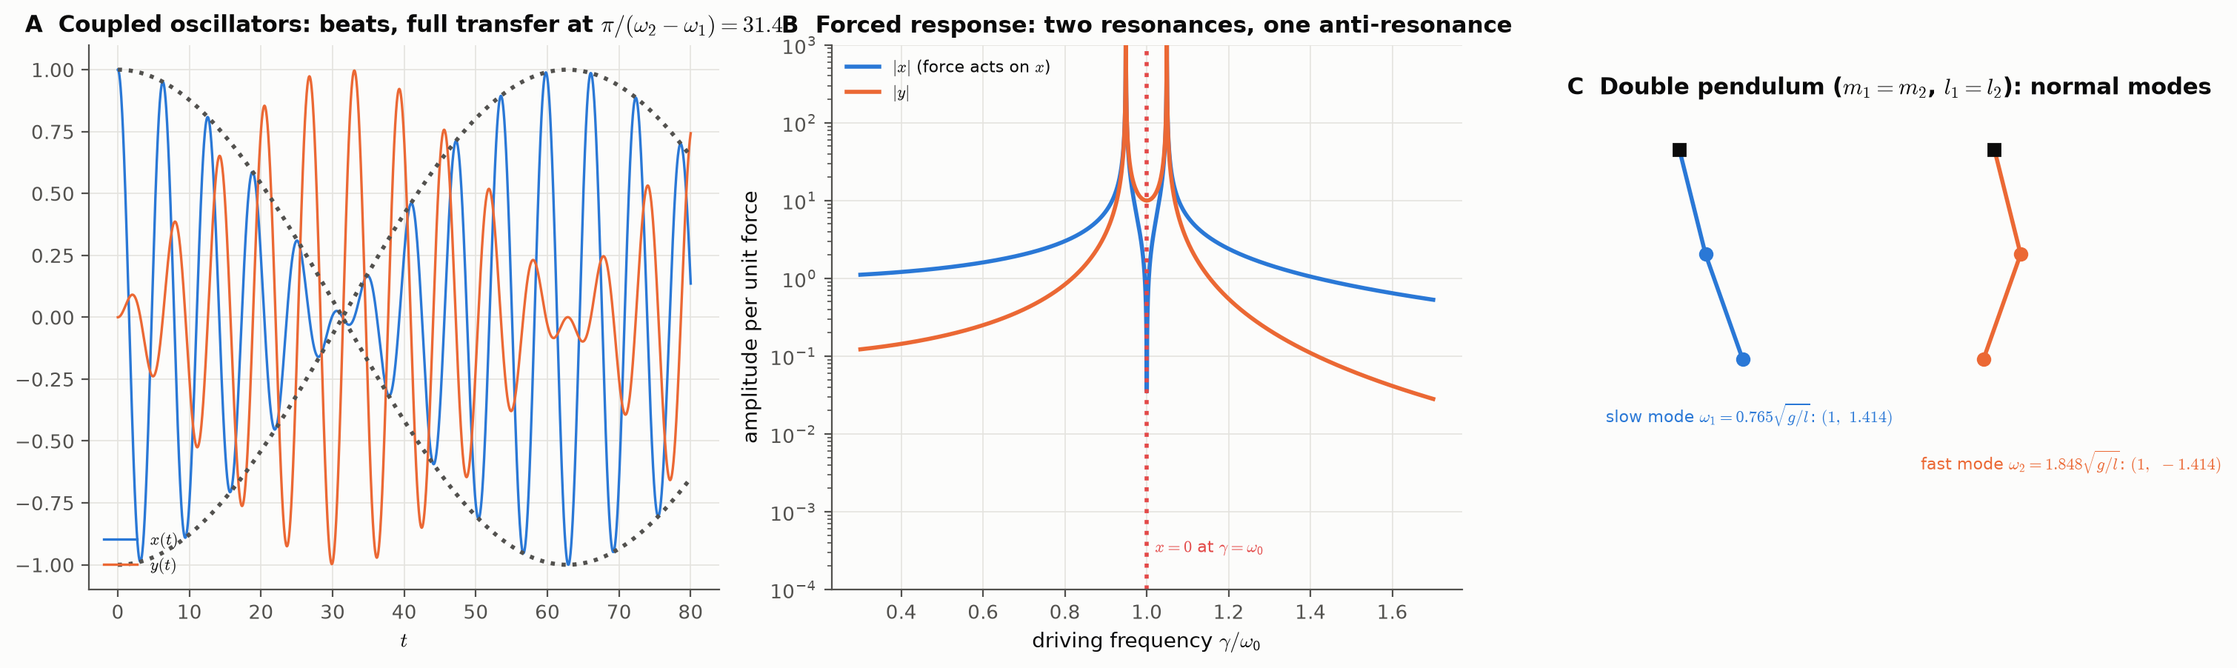
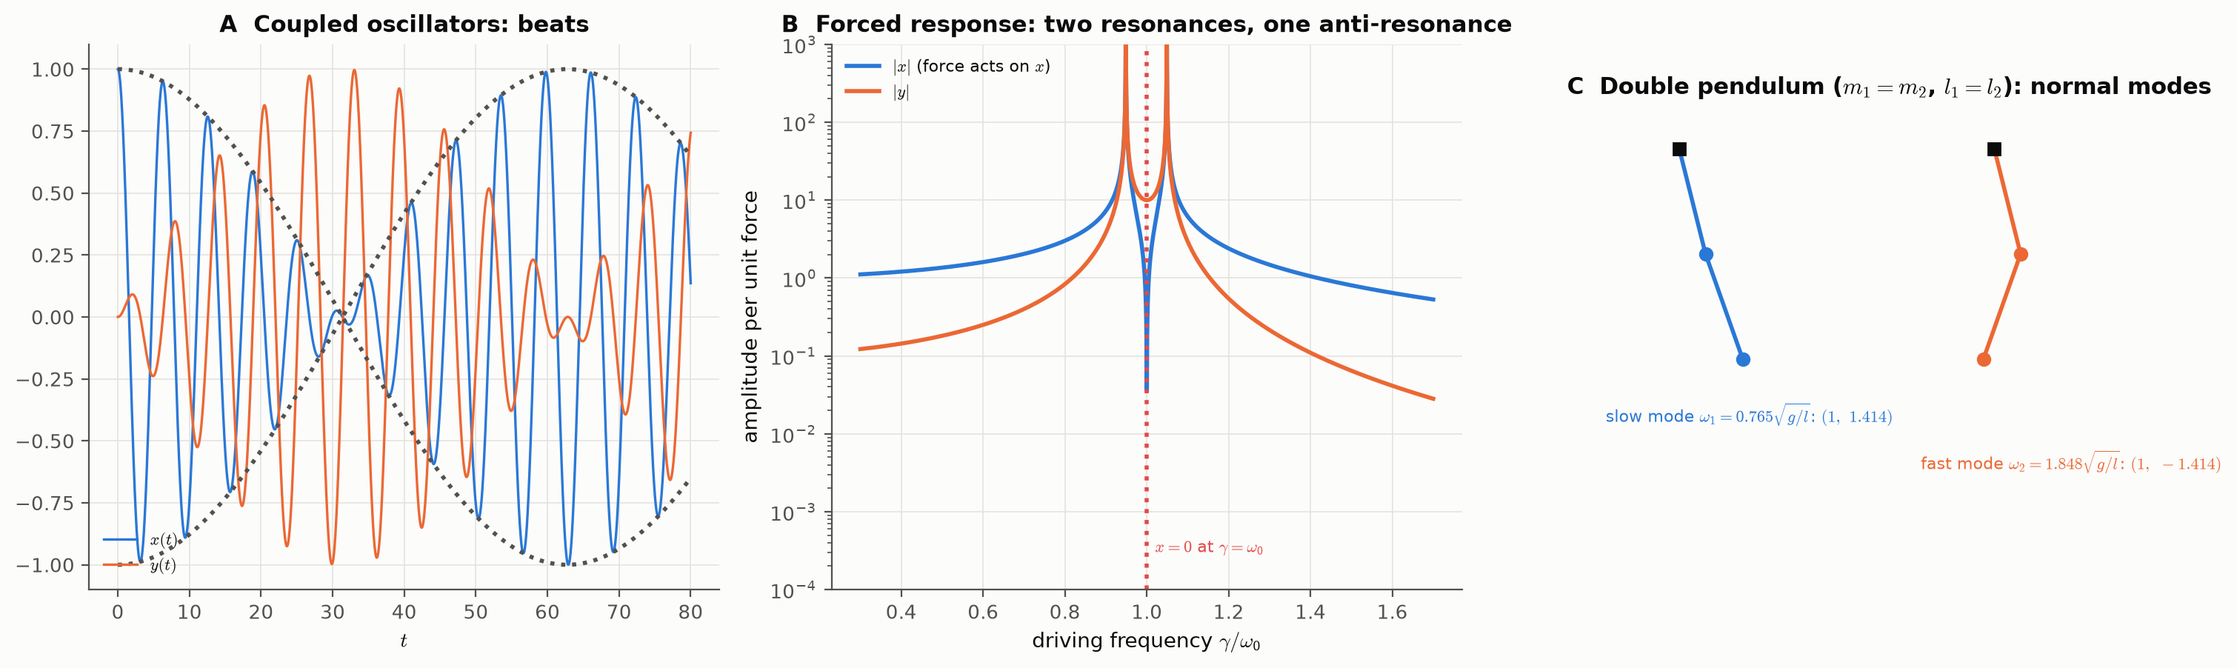
notes: 2026-11-04 13:07

diff --git a/scripts/fig_cm06.py b/scripts/fig_cm06.py
@@ -10,7 +10,7 @@ f=lambda t,y:[y[2],y[3],-w0**2*y[0]+a*y[1],-w0**2*y[1]+a*y[0]]
 s=solve_ivp(f,[0,80],[1,0,0,0],rtol=1e-11,atol=1e-12,dense_output=True); t=np.linspace(0,80,4000); x,y=s.sol(t)[:2]
 A.plot(t,x,color=BLUE,label="$x(t)$",lw=1.2); A.plot(t,y,color=ORANGE,label="$y(t)$",lw=1.2)
 env=np.cos((np.sqrt(1.1)-np.sqrt(0.9))*t/2); A.plot(t,env,color=MUTED,ls=":"); A.plot(t,-env,color=MUTED,ls=":")
-A.set_xlabel("$t$"); A.legend(fontsize=8,loc="lower left"); A.set_title("A  Coupled oscillators: beats, full transfer at $\\pi/(\\omega_2-\\omega_1)=31.4$")
+A.set_xlabel("$t$"); A.legend(fontsize=8,loc="lower left"); A.set_title("A  Coupled oscillators: beats")
 B=ax[1]; g=np.linspace(0.3,1.7,4000)
 w1s,w2s=0.9,1.1
 xa=0.5*(1/(w2s-g**2)+1/(w1s-g**2)); ya=0.5*(1/(w2s-g**2)-1/(w1s-g**2))

diff --git a/15-Classical-Mechanics/CM06 Small Oscillations and Normal Modes.md b/15-Classical-Mechanics/CM06 Small Oscillations and Normal Modes.md
@@ -1,0 +1,273 @@
+---
+title: CM06 Small Oscillations and Normal Modes
+aliases: [CM06, small oscillations, normal modes, normal coordinates, eigenfrequencies, characteristic equation, coupled oscillators, double pendulum, resonance, beats, forced oscillations, harmonic oscillator, equilibrium stability, anti-resonance]
+subject: classical-mechanics
+type: chapter
+chapter: 6
+part: II
+scope: [taught, extra-book, extra-beyond]
+by: [syllabus, book]
+status: draft
+prereq: ["[[CM03 Symmetries, Noether's Theorem and Conservation Laws]]"]
+tags: [subject/classical-mechanics, type/chapter, taught, extra/book, extra/beyond, src/syllabus, src/book, status/draft]
+---
+# CM06 · Small Oscillations and Normal Modes
+
+◀ [[CM05 Scattering]] · [[Classical Mechanics - Course Map]]
+
+<span class="scope-taught">in course overview</span> <span class="scope-extra-book">extra · book</span> <span class="scope-extra-beyond">extra · beyond</span>
+
+> [!warning] Source status (every citation below was read in this session)
+> Overview block 2: "small oscillations" among the applications of the equations of motion. No IISERP lecture notes exist in the folder.
+>
+> **Read directly:** Landau-Lifshitz Vol. 1 §21 (free oscillations in one dimension, printed pp. 58-60), §22 (forced oscillations, resonance and beats, pp. 61-63, up to (22.9)), §23 (several degrees of freedom, pp. 65-70, including Problem 1); Alam (IISER Kolkata notes) §1.3 (the double pendulum, pp. 4-5). pdf = printed + 28. **Not cited because not read:** LL §24 (vibrations of molecules), §25 and §26 (damped and forced oscillations under friction: the damped case here is my own derivation from the Rayleigh function of CM02), §27-29 (parametric resonance, anharmonic oscillations), Goldstein Ch. 6, Thornton Ch. 12, Gregory Ch. 15, Alam §1.2 beyond its opening.
+
+> [!syllabus] Syllabus map
+> 🟢 **In course overview**: §1 expansion about equilibrium, §2 one-dimensional oscillator, §4 several degrees of freedom and normal coordinates.
+>
+> 🟡 **Extra · book**: §3 forced oscillations, resonance and beats (LL §22), §5 the double pendulum (Alam §1.3).
+>
+> 🔵 **Extra · beyond (mine)**: the damped oscillator from the Rayleigh function, the three-mass chain, the forced two-oscillator response and the **anti-resonance**, the nonlinear integration of the double pendulum on a normal mode, `scripts/cm06_numbers.py`, `scripts/fig_cm06.py`.
+
+> [!key] After this chapter you can
+> - expand a Lagrangian about a stable equilibrium into $L=\tfrac12(m_{ik}\dot x_i\dot x_k-k_{ik}x_ix_k)$,
+> - find the **eigenfrequencies** from $\det(k_{ik}-\omega^2m_{ik})=0$ and the **mode shapes** from the null vectors,
+> - build **normal coordinates** in which the motion is $s$ independent one-dimensional oscillators,
+> - solve **forced** problems by projection onto normal coordinates, recognise **resonance**, **beats** and **anti-resonance**,
+> - handle the double pendulum and other coupled systems, with numbers.
+
+> [!intuition] The one-sentence story
+> Near a stable equilibrium every system is a set of springs: potential and kinetic energy are both quadratic forms, and a single linear change of variables diagonalises both at once. The resulting normal coordinates oscillate independently, so any small motion is a superposition of $s$ simple harmonic motions at fixed frequencies; that is why the spectrum of a molecule, a bridge or a crystal is a list of numbers.
+
+```mermaid
+flowchart LR
+  A["stable equilibrium:<br/>U minimum"] --> B["expand to 2nd order:<br/>U = ½ k_ik x_i x_k"]
+  B --> C["L = ½(m_ik ẋ_i ẋ_k - k_ik x_i x_k)"]
+  C --> D["det(k - ω² m) = 0:<br/>eigenfrequencies"]
+  D --> E["normal coordinates Q_α:<br/>Q̈ + ω² Q = 0"]
+  E --> F["free motion:<br/>sum of s oscillations"]
+  E --> G["forced motion:<br/>s independent driven oscillators"]
+```
+
+## 1. Expansion about equilibrium and the one-dimensional oscillator (LL §21)
+Stable equilibrium corresponds to a minimum of the potential energy $U(q)$ at $q_0$: a displacement produces a force $-\mathrm dU/\mathrm dq$ toward $q_0$. For small displacements $x=q-q_0$ keep the first non-vanishing term of the expansion, which is generally the second-order one (LL (21.1)-(21.2)):
+
+$$U(x)=\tfrac12kx^2,\qquad k=U''(q_0)>0,$$
+
+measuring $U$ from its minimum. The kinetic energy $\tfrac12a(q)\dot q^2$ is evaluated at $q_0$: $a(q_0)=m$ ("$m$ is the mass only if $x$ is the Cartesian coordinate", LL's footnote). So
+
+$$L=\tfrac12m\dot x^2-\tfrac12kx^2\quad(21.3),\qquad\ddot x+\omega^2x=0,\quad\omega=\sqrt{k/m}\ \ (21.4)\text{-}(21.6).$$
+
+The general solution is $x=c_1\cos\omega t+c_2\sin\omega t=a\cos(\omega t+\alpha)$ (21.7)-(21.8) with amplitude $a=\sqrt{c_1^2+c_2^2}$, phase $\alpha$, $\tan\alpha=-c_2/c_1$; in terms of initial data $a=\sqrt{x_0^2+v_0^2/\omega^2}$, $\tan\alpha=-v_0/\omega x_0$ (LL Problem 1). Two points LL stress: **the frequency is independent of the amplitude**, fixed by the system alone; this relies on $U$ being quadratic and fails in higher approximations (or if the minimum is of higher order, $U\sim x^n$, $n>2$). The energy is $E=\tfrac12m\dot x^2+\tfrac12kx^2=\tfrac12m\omega^2a^2$ (21.10), proportional to the square of the amplitude. In complex form $x=\mathrm{Re}[Ae^{i\omega t}]$ with complex amplitude $A=ae^{i\alpha}$ (21.11)-(21.12): the exponential is unchanged by differentiation, so one may drop "Re" through all linear operations and take the real part at the end.
+
+> [!example] Worked example 1: the pendulum (🔵 using CM01)
+> $L=\tfrac12ml^2\dot\theta^2+mgl\cos\theta\simeq\tfrac12ml^2\dot\theta^2-\tfrac12mgl\theta^2+\text{const}$, so $m\to ml^2$, $k\to mgl$ and $\omega=\sqrt{g/l}$, $T_0=2\pi\sqrt{l/g}$. The quadratic approximation drops the amplitude dependence that CM01 Worked example 4 computed exactly: $T/T_0=1.0663$ at $\theta_0=1$ rad.
+
+## 2. Forced oscillations, resonance and beats (🟡, LL §22)
+An external field adds to the potential energy $U_e(x,t)\simeq U_e(0,t)+x[\partial U_e/\partial x]_{x=0}$; the first term is a function of time only and drops out as a total derivative; $-[\partial U_e/\partial x]_0\equiv F(t)$ is the external force at equilibrium, and
+
+$$L=\tfrac12m\dot x^2-\tfrac12kx^2+xF(t),\qquad\ddot x+\omega^2x=\frac{F(t)}m\qquad(22.1)\text{-}(22.2).$$
+
+For $F=f\cos(\gamma t+\beta)$ a particular solution is $b\cos(\gamma t+\beta)$ with $b=f/m(\omega^2-\gamma^2)$, so (LL (22.4))
+
+$$x=a\cos(\omega t+\alpha)+\frac{f}{m(\omega^2-\gamma^2)}\cos(\gamma t+\beta):$$
+
+a combination of oscillations at the intrinsic and at the driving frequency. At **resonance** $\gamma\to\omega$ the second term is $0/0$; L'Hôpital gives
+
+$$x=a\cos(\omega t+\alpha)+\frac{f}{2m\omega}\,t\sin(\omega t+\beta)\qquad(22.5):$$
+
+the amplitude grows **linearly in time** until the oscillations are no longer small. Near resonance, $\gamma=\omega+\epsilon$ with $\epsilon$ small, write $x=Ae^{i\omega t}+Be^{i(\omega+\epsilon)t}=[A+Be^{i\epsilon t}]e^{i\omega t}$: small oscillations of variable amplitude $C^2=a^2+b^2+2ab\cos(\epsilon t+\beta-\alpha)$ (22.6)-(22.7), varying between $|a-b|$ and $a+b$ with frequency $\epsilon$: **beats**. LL also reduce the arbitrary-force problem to the first-order complex equation $\dot\xi-i\omega\xi=F(t)/m$ for $\xi=\dot x+i\omega x$ (22.8)-(22.9).
+
+> [!example] Worked example 2: resonance and beats, checked by integration (🔵 numbers)
+> $\omega=2$, $F/m=\cos\gamma t$, $x(0)=\dot x(0)=0$. At $\gamma=\omega$: $x=\tfrac{t}{2\omega}\sin\omega t$; integration gives $x(10)=2.282363$, identical to $\tfrac{10}4\sin20=2.282363$, with envelope $t/2\omega=2.5$ at $t=10$. At $\gamma=2.1$: $x=\dfrac{\cos\gamma t-\cos\omega t}{\omega^2-\gamma^2}$, so the maximum amplitude is $2/|\omega^2-\gamma^2|=4.878$ (integrated: $4.8780$) and the beat envelope has period $2\pi/\epsilon=62.8$.
+
+> [!note] Damping (🔵, not from LL)
+> With the Rayleigh function of CM02 §6.2 ($\mathcal F=\tfrac12b\dot x^2$) the equation is $m\ddot x+b\dot x+kx=F(t)$, and for free motion $x\propto e^{-bt/2m}\cos\omega_dt$ with $\omega_d=\sqrt{\omega^2-(b/2m)^2}$ (CM02 Worked example 6: $\omega_d=1.9975$, decay rate $0.2$). The resonance peak of the forced steady state is then finite, of height $\sim f/(b\omega)$; LL §25-26 treat this, which I have not read.
+
+## 3. Several degrees of freedom (LL §23)
+### 3.1 The Lagrangian and the equations of motion
+Let $U(q_1,\dots,q_s)$ have a minimum at $q_{i0}$. With $x_i=q_i-q_{i0}$ (23.1), expanding to second order gives a positive-definite quadratic form
+
+$$U=\tfrac12\sum_{i,k}k_{ik}x_ix_k,\quad k_{ik}=k_{ki}\ \ (23.2);\qquad T=\tfrac12\sum_{i,k}m_{ik}\dot x_i\dot x_k,\quad m_{ik}=a_{ik}(q_0)=m_{ki}\ \ (23.3),$$
+
+because $T$ is already quadratic in the velocities (CM02 §3, LL (5.5)). Hence
+
+$$L=\tfrac12\sum_{i,k}\bigl(m_{ik}\dot x_i\dot x_k-k_{ik}x_ix_k\bigr)\qquad(23.4).$$
+
+Using the symmetry of $m_{ik}$ and $k_{ik}$, $\partial L/\partial\dot x_i=\sum_km_{ik}\dot x_k$ and $\partial L/\partial x_i=-\sum_kk_{ik}x_k$, so Lagrange's equations are $s$ linear homogeneous ODEs with constant coefficients:
+
+$$\sum_km_{ik}\ddot x_k+\sum_kk_{ik}x_k=0\qquad(i=1,\dots,s)\qquad(23.5).$$
+
+### 3.2 Eigenfrequencies and mode shapes
+Try $x_k=A_ke^{i\omega t}$ (23.6): $\sum_k(-\omega^2m_{ik}+k_{ik})A_k=0$ (23.7), which has non-zero solutions only if
+
+$$\boxed{\det\bigl(k_{ik}-\omega^2m_{ik}\bigr)=0}\qquad(23.8),$$
+
+the **characteristic equation**, of degree $s$ in $\omega^2$, with roots $\omega_\alpha^2$ ($\alpha=1,\dots,s$), the **eigenfrequencies**. The roots are **real and positive**. LL give two arguments: an imaginary part of $\omega$ would give an exponentially growing or decaying factor and so a varying energy $E=U+T$, which is impossible; and, multiplying (23.7) by $A_i^*$ and summing,
+
+$$\omega^2=\frac{\sum k_{ik}A_i^*A_k}{\sum m_{ik}A_i^*A_k},$$
+
+a ratio of two real positive-definite Hermitian forms. For distinct roots the amplitudes $A_{k\alpha}$ are proportional to the minors of the determinant (23.8) at $\omega=\omega_\alpha$ (the **mode shape**), and the general solution is the real part of a sum of $s$ terms,
+
+$$x_k=\mathrm{Re}\sum_\alpha\Delta_{k\alpha}C_\alpha e^{i\omega_\alpha t}=\sum_\alpha\Delta_{k\alpha}\Theta_\alpha,\quad\Theta_\alpha=\mathrm{Re}[C_\alpha e^{i\omega_\alpha t}]\quad(23.9)\text{-}(23.10):$$
+
+the time variation of each coordinate is a superposition of $s$ simple periodic oscillations with arbitrary amplitudes and phases but fixed frequencies.
+
+### 3.3 Normal coordinates
+Regarding (23.9) as $s$ equations for the $s$ unknowns $\Theta_\alpha$, one may express the $\Theta_\alpha$ through the $x_k$; they are new generalised coordinates, the **normal coordinates**, satisfying
+
+$$\ddot\Theta_\alpha+\omega_\alpha^2\Theta_\alpha=0\qquad(23.11),$$
+
+completely independent "normal oscillations". In them the Lagrangian is a sum of one-dimensional oscillators,
+
+$$L=\sum_\alpha\tfrac12m_\alpha\bigl(\dot\Theta_\alpha^2-\omega_\alpha^2\Theta_\alpha^2\bigr)\qquad(23.12),$$
+
+so *the transformation simultaneously diagonalises both quadratic forms $T$ and $U$*. It is usual to normalise with $Q_\alpha=\sqrt{m_\alpha}\Theta_\alpha$ (23.13) so that $L=\tfrac12\sum(\dot Q_\alpha^2-\omega_\alpha^2Q_\alpha^2)$.
+
+**Degeneracy.** If some roots coincide, the general form (23.9) is unchanged, with the same number $s$ of terms; a multiple frequency corresponds to as many normal coordinates as its multiplicity, but their choice is not unique (any linear transformation preserving $\sum\dot Q^2$ and $\sum Q^2$). LL's example: a particle in a constant external field in three dimensions, $L=\tfrac12m(\dot x^2+\dot y^2+\dot z^2)-\tfrac12(k_1x^2+k_2y^2+k_3z^2)$ after choosing axes that diagonalise $U$ (23.14): normal oscillations along $x,y,z$ with $\omega_i=\sqrt{k_i/m}$, all equal for a central field $U=\tfrac12kr^2$.
+
+### 3.4 Forced oscillations by projection (23.15)-(23.17)
+With external forces the Lagrangian is $L=L_0+\sum_kF_k(t)x_k$; in normal coordinates $L=\sum_\alpha\tfrac12(\dot Q_\alpha^2-\omega_\alpha^2Q_\alpha^2)+\sum_\alpha f_\alpha(t)Q_\alpha$ with $f_\alpha=\sum_kF_k\Delta_{k\alpha}/\sqrt{m_\alpha}$ (projection of the force on each mode), and the equations are
+
+$$\ddot Q_\alpha+\omega_\alpha^2Q_\alpha=f_\alpha(t),$$
+
+"each involving only one unknown function": a forced multi-degree problem reduces to $s$ forced one-dimensional problems of §2. In particular each mode resonates when the driving frequency reaches its own $\omega_\alpha$.
+
+> [!example] Worked example 3: two coupled identical oscillators (LL §23 Problem 1)
+> $L=\tfrac12(\dot x^2+\dot y^2)-\tfrac12\omega_0^2(x^2+y^2)+\alpha xy$: equations $\ddot x+\omega_0^2x=\alpha y$, $\ddot y+\omega_0^2y=\alpha x$. Substituting (23.6): $A_x(\omega_0^2-\omega^2)=\alpha A_y$, $A_y(\omega_0^2-\omega^2)=\alpha A_x$; characteristic equation $(\omega_0^2-\omega^2)^2=\alpha^2$, so $\omega_1^2=\omega_0^2-\alpha$ (in-phase, $A_y=A_x$) and $\omega_2^2=\omega_0^2+\alpha$ (anti-phase). Normal coordinates $Q_\pm=(x\pm y)/\sqrt2$ (the mode shapes are the sum and difference). *Beats:* starting from $x=1$, $y=0$ at rest, $x=\cos\tfrac{\omega_2-\omega_1}2t\cos\bar\omega t$, $y=\sin\tfrac{\omega_2-\omega_1}2t\sin\bar\omega t$: energy swings between the two oscillators with full transfer after $\pi/(\omega_2-\omega_1)$. For $\omega_0=1$, $\alpha=0.1$: $\omega_1=0.94868$, $\omega_2=1.04881$, beat period $2\pi/(\omega_2-\omega_1)=62.75$, full transfer at $31.38$ (integrated: $x(31.377)=0$ to $10^{-5}$; panel A).
+
+> [!example] Worked example 4: forced coupled oscillators, with an **anti-resonance** (🔵)
+> Force $F\cos\gamma t$ on $x$ only. In normal coordinates the in-phase combination $Q_+=(x+y)/\sqrt2$ has frequency $\omega_1$ and the anti-phase one $Q_-=(x-y)/\sqrt2$ has $\omega_2$, and the force projects as $f_\pm=F/\sqrt2$, so $Q_+=\dfrac{F/\sqrt2}{\omega_1^2-\gamma^2}\cos\gamma t$, $Q_-=\dfrac{F/\sqrt2}{\omega_2^2-\gamma^2}\cos\gamma t$. Then $x=\tfrac1{\sqrt2}(Q_++Q_-)$ and $y=\tfrac1{\sqrt2}(Q_+-Q_-)$ give amplitudes
+>
+> $$x=\frac F2\Bigl[\frac1{\omega_1^2-\gamma^2}+\frac1{\omega_2^2-\gamma^2}\Bigr],\qquad y=\frac F2\Bigl[\frac1{\omega_1^2-\gamma^2}-\frac1{\omega_2^2-\gamma^2}\Bigr].$$
+>
+> Both diverge at $\gamma=\omega_1$ and $\omega_2$ (two resonances). Between them the two terms in $x$ have opposite signs and cancel exactly when $\gamma^2=\tfrac12(\omega_1^2+\omega_2^2)=\omega_0^2$: **the driven oscillator stands still** while its partner moves. For $\omega_0=1$, $\alpha=0.1$ (amplitudes per unit force, from solving the $2\times2$ system): $\gamma=0.5$: $(x,y)=(1.358,\,0.181)$; $\gamma=0.9$: $(7.28,\,3.83)$; $\gamma=1.0$: $(0,\,-10)$ (|y| = 10); $\gamma=1.5$: $(-0.805,\,0.064)$ (panel B). This is the principle of the **dynamic vibration absorber**: attach a tuned secondary oscillator, and the primary stops at its own resonance.
+
+## 4. The double pendulum (🟡, Alam §1.3)
+Two masses on rigid rods ($l_1,l_2$), two degrees of freedom, coordinates $\theta_1,\theta_2$. Alam writes $x_1=l_1\sin\theta_1$, $y_1=-l_1\cos\theta_1$, $x_2=l_1\sin\theta_1+l_2\sin\theta_2$, $y_2=-l_1\cos\theta_1-l_2\cos\theta_2$, with $v_2^2=l_1^2\dot\theta_1^2+l_2^2\dot\theta_2^2+2l_1l_2\dot\theta_1\dot\theta_2\cos(\theta_2-\theta_1)$ ("the cross term arises because both masses contribute to the motion of the second particle") and
+
+$$T=\tfrac12(m_1+m_2)l_1^2\dot\theta_1^2+\tfrac12m_2l_2^2\dot\theta_2^2+m_2l_1l_2\dot\theta_1\dot\theta_2\cos(\theta_2-\theta_1),$$
+
+$$V=-(m_1+m_2)gl_1\cos\theta_1-m_2gl_2\cos\theta_2.$$
+
+The exact equations are "two coupled nonlinear differential equations" with complex motion (the dynamics can be chaotic at large amplitude, my remark). For small angles ($\sin\theta\simeq\theta$, $\cos(\theta_2-\theta_1)\simeq1$) the Lagrangian is the quadratic form
+
+$$L=\tfrac12(m_1+m_2)l_1^2\dot\theta_1^2+\tfrac12m_2l_2^2\dot\theta_2^2+m_2l_1l_2\dot\theta_1\dot\theta_2-\tfrac12(m_1+m_2)gl_1\theta_1^2-\tfrac12m_2gl_2\theta_2^2,$$
+
+"a system of coupled harmonic oscillators" in the form (23.4): here the **coupling is in the kinetic energy** ($m_{12}=m_2l_1l_2\ne0$) while $k_{ik}$ is diagonal.
+
+> [!example] Worked example 5: equal masses and rods
+> $m_1=m_2=m$, $l_1=l_2=l$: $m_{ik}=ml^2\begin{pmatrix}2&1\\1&1\end{pmatrix}$, $k_{ik}=mgl\begin{pmatrix}2&0\\0&1\end{pmatrix}$. With $\omega^2=\lambda g/l$, (23.8) reads $(2-2\lambda)(1-\lambda)-\lambda^2=0$, i.e. $2(1-\lambda)^2=\lambda^2$, so $\lambda=2\mp\sqrt2$:
+>
+> $$\omega_1=\sqrt{2-\sqrt2}\sqrt{\tfrac gl}=0.7654\sqrt{\tfrac gl},\qquad\omega_2=\sqrt{2+\sqrt2}\sqrt{\tfrac gl}=1.8478\sqrt{\tfrac gl}.$$
+>
+> Mode shapes from $(2-2\lambda)A_1=\lambda A_2$: $A_2/A_1=\sqrt2$ for the slow mode (both bobs swing the same way, the lower one further) and $-\sqrt2$ for the fast mode (anti-phase) (panel C). For $l=1$ m: $\omega_1=2.397$ s⁻¹ ($T_1=2.621$ s), $\omega_2=5.787$ s⁻¹ ($T_2=1.086$ s). **Check against the full nonlinear equations** (integrated with energy conserved to $10^{-13}$): starting on a mode at amplitude $0.02$ rad, the measured periods are $2.6211$ s and $1.0865$ s, versus $2.6211$ s and $1.0857$ s predicted: agreement to $3\times10^{-5}$ and $7\times10^{-4}$ (the small difference is the amplitude dependence the quadratic theory omits).
+
+> [!example] Worked example 6: three equal masses on four springs (🔵)
+> Fixed ends, $m_{ik}=m\delta_{ik}$, $k_{ik}=k\begin{pmatrix}2&-1&0\\-1&2&-1\\0&-1&2\end{pmatrix}$: $\omega^2/(k/m)=2-\sqrt2,\ 2,\ 2+\sqrt2$ ($0.5858,\ 2,\ 3.4142$), with mode shapes $(1,\sqrt2,1)$, $(1,0,-1)$, $(1,-\sqrt2,1)$ (the middle mass is at rest in the middle mode). In the limit of many masses this chain becomes the vibrating string and the normal modes become standing waves: the continuous version is the subject of the Waves vault ([[Waves - Course Map]]).
+
+![[fig_cm06_oscillations.png]]
+
+## Map of this chapter
+```mermaid
+flowchart TD
+  U["U'(q₀) = 0, U'' > 0"] --> L["L = ½(m_ik ẋ_i ẋ_k - k_ik x_i x_k)"]
+  L --> CE["det(k - ω² m) = 0"]
+  CE --> NM["mode shapes,<br/>normal coordinates"]
+  NM --> FO["free: Σ_α Δ_kα Θ_α"]
+  NM --> FF["forced: Q̈ + ω²Q = f_α"]
+  FF --> RES["resonance (t sin ωt), beats"]
+  FF --> AR["anti-resonance"]
+  L --> DP["double pendulum"]
+```
+
+## Common mistakes
+1. Assuming small oscillations are independent of amplitude *and* of the existence of a minimum (a higher-order minimum $U\sim x^4$ has amplitude-dependent frequency).
+2. Taking $m_{ik}$ as the physical masses: it is $a_{ik}(q_0)$, which for the double pendulum has an off-diagonal part.
+3. Diagonalising only $k_{ik}$ and forgetting $m_{ik}$ (the correct problem is the generalised eigenvalue equation (23.8)).
+4. Treating the beats formula as valid at exact resonance (there the amplitude grows $\propto t$).
+5. Forgetting the projection of the force on the mode shape: a force can leave a mode unexcited.
+6. Believing the double pendulum's linear modes persist at large amplitude (they do not).
+
+## Summary
+- $L=\tfrac12(m_{ik}\dot x_i\dot x_k-k_{ik}x_ix_k)$; $\omega_\alpha^2$ from $\det(k-\omega^2m)=0$, all real and positive.
+- Normal coordinates: $\ddot Q_\alpha+\omega_\alpha^2Q_\alpha=0$; both quadratic forms diagonal.
+- One dimension: $\omega=\sqrt{k/m}$, $E=\tfrac12m\omega^2a^2$; forced: resonance $x\sim\tfrac{f}{2m\omega}t\sin\omega t$, beats at frequency $\epsilon$.
+- Coupled equal oscillators: $\omega^2=\omega_0^2\mp\alpha$; anti-resonance at $\gamma=\omega_0$.
+- Double pendulum (equal): $\omega^2=(2\mp\sqrt2)g/l$, mode ratios $\pm\sqrt2$.
+- Numbers: $\omega_{1,2}=0.7654,\ 1.8478\sqrt{g/l}$; beats full transfer at $31.38$; chain $2\mp\sqrt2,\ 2$.
+
+## Practice
+> [!question]- P1. Frequency and amplitude
+> A particle of mass 0.5 kg on a spring $k=8$ N/m is released from $x_0=0.1$ m with $v_0=0.4$ m/s: find $\omega$, $a$, $\alpha$ and $E$.
+> **Solution.** $\omega=4$ s⁻¹; $a=\sqrt{0.01+0.16/16}=0.1414$ m; $\tan\alpha=-v_0/\omega x_0=-1$, $\alpha=-45^\circ$; $E=\tfrac12m\omega^2a^2=0.08$ J.
+
+> [!question]- P2. Resonance growth
+> $\omega=2$, $f/m=1$: amplitude at $t=10$ when driven at resonance from rest.
+> **Solution.** $\tfrac{f}{2m\omega}t=\tfrac{10}4=2.5$.
+
+> [!question]- P3. Beats
+> $\omega=2$ driven at $\gamma=2.1$ from rest: maximum amplitude and beat period.
+> **Solution.** $2/|\omega^2-\gamma^2|=4.878$; $2\pi/(\gamma-\omega)=62.8$.
+
+> [!question]- P4. Coupled oscillators
+> Eigenfrequencies of $\ddot x+x=0.1y$, $\ddot y+y=0.1x$ and the beat period.
+> **Solution.** $\omega=\sqrt{0.9},\sqrt{1.1}=0.9487,\ 1.0488$; $T_{\rm beat}=62.75$.
+
+> [!question]- P5. Anti-resonance
+> For the same system with $F\cos\gamma t$ on $x$, at which $\gamma$ does $x$ vanish and what is $y$ there per unit force?
+> **Solution.** $\gamma^2=\omega_0^2=1$; $y=\tfrac F2[1/(0.9-1)-1/(1.1-1)]=-10F$.
+
+> [!question]- P6. Double pendulum frequencies
+> Eigenfrequencies for $l=0.5$ m, $m_1=m_2$.
+> **Solution.** $\omega^2=(2\mp\sqrt2)g/l$: $\omega_1=0.7654\sqrt{19.62}=3.39$ s⁻¹, $\omega_2=1.8478\sqrt{19.62}=8.18$ s⁻¹.
+
+> [!question]- P7. Double pendulum mode shapes
+> Find $A_2/A_1$ for each mode.
+> **Solution.** From $(2-2\lambda)A_1=\lambda A_2$: $\lambda=2-\sqrt2$ gives $+\sqrt2$; $\lambda=2+\sqrt2$ gives $-\sqrt2$.
+
+> [!question]- P8. Unequal masses
+> Double pendulum with $m_1=3m$, $m_2=m$, $l_1=l_2=l$: set up (23.8).
+> **Solution.** $m_{ik}=ml^2\begin{pmatrix}4&1\\1&1\end{pmatrix}$, $k_{ik}=mgl\begin{pmatrix}4&0\\0&1\end{pmatrix}$; $\det\begin{pmatrix}4(1-\lambda)&-\lambda\\-\lambda&1-\lambda\end{pmatrix}=4(1-\lambda)^2-\lambda^2=0$ so $\lambda=2/3$ or $2$.
+
+> [!question]- P9. Three-mass chain
+> Eigenfrequencies and shape of the middle mode.
+> **Solution.** $\omega^2=(2-\sqrt2,2,2+\sqrt2)k/m$; the middle mode is $(1,0,-1)$.
+
+> [!question]- P10. Positive definiteness
+> Why must $\omega^2>0$?
+> **Solution.** $\omega^2=\sum k_{ik}A_i^*A_k/\sum m_{ik}A_i^*A_k$ with both forms real and positive (LL).
+
+> [!question]- P11. Degenerate modes
+> For a particle in $U=\tfrac12k r^2$ what are the normal oscillations?
+> **Solution.** $\omega=\sqrt{k/m}$, threefold degenerate; any orthogonal set of axes works.
+
+> [!question]- P12. Normal coordinates for two springs
+> Show $Q_\pm=(x\pm y)/\sqrt2$ diagonalise $L$ in Worked example 3.
+> **Solution.** $\tfrac12(\dot x^2+\dot y^2)=\tfrac12(\dot Q_+^2+\dot Q_-^2)$, $\tfrac12\omega_0^2(x^2+y^2)-\alpha xy=\tfrac12(\omega_0^2-\alpha)Q_+^2+\tfrac12(\omega_0^2+\alpha)Q_-^2$.
+
+> [!question]- P13. Force with no effect
+> A force $F(t)$ on the middle mass of the three-mass chain: which normal modes are excited?
+> **Solution.** The antisymmetric mode $(1,0,-1)$ has zero amplitude on the middle mass, so $f=0$ for it; only the two symmetric modes are driven.
+
+> [!question]- P14. Energy of a mode
+> A normal mode has amplitude $a$; show $E=\tfrac12m_\alpha\omega_\alpha^2a^2$ and that energies of different modes add.
+> **Solution.** From (23.12) the energy separates: $E=\sum_\alpha\tfrac12m_\alpha(\dot\Theta_\alpha^2+\omega_\alpha^2\Theta_\alpha^2)$.
+
+> [!question]- P15. Quadratic approximation limit
+> At what amplitude does the pendulum's exact period differ from $T_0$ by 1%?
+> **Solution.** $T/T_0\simeq1+\theta_0^2/16$ (CM01 table), so $\theta_0\simeq\sqrt{0.16}=0.40$ rad ($23^\circ$).
+
+## Zettel notes
+<!-- zettel:start -->
+<!-- zettel:end -->
+
+## Provenance
+> [!provenance]- Source map for this chapter (all rows read in this session)
+> | Topic | Source | Scope |
+> |---|---|---|
+> | expansion about equilibrium, one-dimensional oscillator, energy, complex amplitude (21.1)-(21.12) | LL Vol. 1 §21, pp. 58-60 | in overview |
+> | forced oscillations, resonance, beats (22.1)-(22.9) | LL §22, pp. 61-63 | extra/book |
+> | several degrees of freedom, (23.1)-(23.17), Problem 1 | LL §23, pp. 65-70 | in overview |
+> | double pendulum: coordinates, $T$, $V$, small-oscillation Lagrangian | Alam, IISER Kolkata notes §1.3, pp. 4-5 | supplement |
+> | damped oscillator (from CM02), pendulum, three-mass chain, anti-resonance, nonlinear check of the double pendulum | `scripts/cm06_numbers.py`, `scripts/fig_cm06.py` | extra/beyond |
